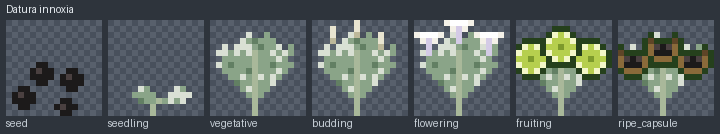
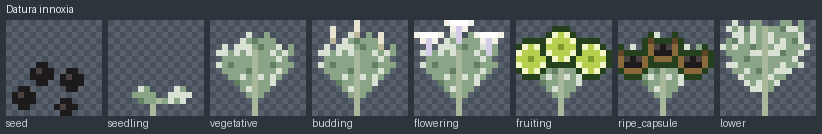
Set 1 block = 1 m and add multi-block textures
- config/scale.yaml records the world scale; derive_structure reads it
- schema + plant files: segment_textures for the five Datura species taller
  than 1 m (lower stem block) and the peach tree (trunk side/top)
- make_textures/make_index draw them and add 2-block stack previews
- docs/plant-structure.md documents growth and structure rules

Claude-Session: https://claude.ai/code/session_01JgE5aZ1GHkRLZLL9SPR287

diff --git a/tools/make_textures.py b/tools/make_textures.py
@@ -160,6 +160,37 @@ def outlined(pix, shape, ox, oy, remap=None):
     place(pix, shape, ox, oy, remap)
 
 
+LOWER = [
+    "..L..LL...LL.L..",
+    ".LLLlLLTLLlLLL..",
+    "..LLLLLTLLLLLL..",
+    ".LlLLLLTLLLLlL..",
+    "LLLLLlLTLLLLLLL.",
+    ".LLLLLLTLLlLLL..",
+    "..LLlLLTLLLLL...",
+    ".LLLLLLTLLLLLL..",
+    "..LLLLlTLLLL....",
+    "...LLLLTLLL.....",
+    "....LLLTLL......",
+    ".....LLTL.......",
+    ".......T........",
+    ".......T........",
+    ".......T........",
+    ".......T........",
+]
+
+
+def datura_lower(pid, p):
+    """Leafy stem block that sits under the stage texture on plants taller than 1 block."""
+    rng = random.Random(pid + ":lower")
+    pix = parse(LOWER)
+    if p.get("fuzzy"):
+        for (x, y), ch in list(pix.items()):
+            if ch in "Ll" and rng.random() < p["fuzzy"]:
+                pix[(x, y)] = "w"
+    return pix
+
+
 def datura_stage(pid, stage, p):
     rng = random.Random(pid)
     pix = parse(SEEDLING if stage == "seedling" else VEG)
@@ -313,6 +344,30 @@ def peach_leaves(kind):
     return img
 
 
+def peach_trunk(kind):
+    rng = random.Random("peach:trunk:" + kind)
+    img = Image.new("RGBA", (SIZE, SIZE), (0, 0, 0, 255))
+    greys = [hx("#4a4543"), hx("#3d3837"), hx("#58524f"), hx("#332f2e")]
+    if kind == "side":
+        for x in range(SIZE):
+            col = rng.choice(greys)
+            for y in range(SIZE):
+                img.putpixel((x, y), col if rng.random() < 0.75 else rng.choice(greys))
+        for y in (3, 8, 12):  # horizontal lenticels
+            for x in rng.sample(range(SIZE), 5):
+                img.putpixel((x, y), hx("#8a7f73"))
+    else:
+        img.paste(hx("#7a5a3c"), (0, 0, SIZE, SIZE))
+        for x in range(SIZE):
+            for y in range(SIZE):
+                d = max(abs(x - 7.5), abs(y - 7.5))
+                if x in (0, 15) or y in (0, 15):
+                    img.putpixel((x, y), hx("#3d3837"))
+                elif int(d) % 2 == 0:
+                    img.putpixel((x, y), hx("#946b45"))
+    return img
+
+
 def peach_sapling():
     pix = parse([
         "................", "................", "................", "................",
@@ -357,6 +412,15 @@ def draw_stage(pid, stage):
             return render(*peach_sapling())
         return peach_leaves({"young_tree": "young"}.get(stage, stage))
     raise KeyError(pid)
+
+
+def draw_segment(pid, role):
+    if pid.startswith("datura_") and role == "lower":
+        p = dict(DATURA_DEFAULT, **DATURA[pid])
+        return render(datura_lower(pid, p), datura_palette(p))
+    if pid == "prunus_persica" and role in ("trunk_side", "trunk_top"):
+        return peach_trunk(role.split("_")[1])
+    raise KeyError((pid, role))
 
 
 def sheet(images, labels, title, scale=6):
@@ -406,6 +470,14 @@ def main():
                 missing += 1
             imgs.append(im)
             labels.append(st["id"])
+        for sg in d.get("segment_textures", []):
+            out = ROOT / sg["texture"]
+            im = draw_segment(pid, sg["role"])
+            if not a.check:
+                out.parent.mkdir(parents=True, exist_ok=True)
+                im.save(out)
+            imgs.append(im)
+            labels.append(sg["role"])
         if pid == "prunus_persica" and not a.check:
             for name, (pix, pal) in (("peach", peach_item()), ("peach_pit", peach_pit_item())):
                 p = ROOT / "textures" / "item" / f"{name}.png"

diff --git a/tools/make_index.py b/tools/make_index.py
@@ -52,6 +52,31 @@ def main() -> int:
             lines.append(f"| {i} | {st['name']} | ![{pid} {st['id']}]({rel}) | {desc} |")
             total += 1
         lines.append("")
+        segs = d.get("segment_textures", [])
+        if segs:
+            lines += ["Extra blocks for plants taller than 1 block at the configured scale:", "",
+                      "| Role | Image | Note |", "|---|---|---|"]
+            for sg in segs:
+                rel = f"stages/{pid}/segment_{sg['role']}.png"
+                enlarge(ROOT / sg["texture"]).save(out_dir / rel)
+                lines.append(f"| {sg['role']} | ![{pid} {sg['role']}]({rel}) | {sg['note']} |")
+                total += 1
+            lines.append("")
+            lower = [sg for sg in segs if sg["role"] == "lower"]
+            if lower:
+                low = Image.open(ROOT / lower[0]["texture"]).convert("RGBA")
+                tops = [st for st in d["growth_stages"] if st["id"] in ("vegetative", "budding", "flowering", "fruiting", "ripe_capsule")]
+                stack = Image.new("RGBA", (len(tops) * (SIZE * SCALE + 8) + 8, 2 * SIZE * SCALE + 16), (46, 52, 60, 255))
+                for i, st in enumerate(tops):
+                    top = enlarge(ROOT / st["texture"])
+                    bot = enlarge(ROOT / lower[0]["texture"])
+                    x = 8 + i * (SIZE * SCALE + 8)
+                    stack.paste(top, (x, 8))
+                    stack.paste(bot, (x, 8 + SIZE * SCALE))
+                rel = f"stages/{pid}/stack_2_blocks.png"
+                stack.save(out_dir / rel)
+                lines += [f"Full-height plant (2 blocks): vegetative, budding, flowering, fruiting, ripe capsule, each over the lower block.", "",
+                          f"![{pid} 2-block stack]({rel})", ""]
     (out_dir / "INDEX.md").write_text("\n".join(lines), encoding="utf-8")
     print(f"wrote {total} stage images and INDEX.md")
     return 0

diff --git a/tools/derive_structure.py b/tools/derive_structure.py
@@ -1,7 +1,7 @@
 #!/usr/bin/env python3
 """Derive block-structure sizes from each plant's real size data.
 
-    python3 tools/derive_structure.py [cm_per_block ...]     (default: 100 60 50)
+    python3 tools/derive_structure.py [cm_per_block ...]     (default: config/scale.yaml)
 
 Blocks tall = ceil(height / cm_per_block), never less than 1. Nothing is typed by hand:
 change the scale and every species follows. Species whose size source is 'pending'
@@ -21,7 +21,7 @@ def blocks(cm, per):
 
 
 def main(argv):
-    scales = [float(a) for a in argv] or [100, 60, 50]
+    scales = [float(a) for a in argv] or [float(yaml.safe_load((ROOT / 'config' / 'scale.yaml').read_text())['cm_per_block'])]
     rows = []
     for f in sorted((ROOT / "plants").glob("*.yaml")):
         d = yaml.safe_load(f.read_text(encoding="utf-8"))

diff --git a/docs/preview/INDEX.md b/docs/preview/INDEX.md
@@ -57,6 +57,16 @@ Confidence: **high**. Implementation type: `flower_fruit_plant`.
 | 6 | Fruiting | ![datura_discolor fruiting](stages/datura_discolor/06_fruiting.png) | Petals fall and a green spiny seed capsule swells. |
 | 7 | Ripe capsule | ![datura_discolor ripe_capsule](stages/datura_discolor/07_ripe_capsule.png) | Capsule browns and splits open, showing black seeds. |
 
+Extra blocks for plants taller than 1 block at the configured scale:
+
+| Role | Image | Note |
+|---|---|---|
+| lower | ![datura_discolor lower](stages/datura_discolor/segment_lower.png) | Leafy stem block placed under the stage texture when this plant grows past 1 block (real height > 1 m). |
+
+Full-height plant (2 blocks): vegetative, budding, flowering, fruiting, ripe capsule, each over the lower block.
+
+![datura_discolor 2-block stack](stages/datura_discolor/stack_2_blocks.png)
+
 ## Datura ferox - Long-Spined Thorn-Apple
 
 Confidence: **medium**. Implementation type: `flower_fruit_plant`.
@@ -84,6 +94,16 @@ Confidence: **medium**. Implementation type: `flower_fruit_plant`.
 | 5 | Flowering | ![datura_innoxia flowering](stages/datura_innoxia/05_flowering.png) | Large trumpet-shaped flowers open (see flower notes for timing and colour). |
 | 6 | Fruiting | ![datura_innoxia fruiting](stages/datura_innoxia/06_fruiting.png) | Petals fall and a green spiny seed capsule swells. |
 | 7 | Ripe capsule | ![datura_innoxia ripe_capsule](stages/datura_innoxia/07_ripe_capsule.png) | Capsule browns and splits open, showing black seeds. |
+
+Extra blocks for plants taller than 1 block at the configured scale:
+
+| Role | Image | Note |
+|---|---|---|
+| lower | ![datura_innoxia lower](stages/datura_innoxia/segment_lower.png) | Leafy stem block placed under the stage texture when this plant grows past 1 block (real height > 1 m). |
+
+Full-height plant (2 blocks): vegetative, budding, flowering, fruiting, ripe capsule, each over the lower block.
+
+![datura_innoxia 2-block stack](stages/datura_innoxia/stack_2_blocks.png)
 
 ## Datura kymatocarpa - Datura kymatocarpa
 
@@ -141,6 +161,16 @@ Confidence: **high**. Implementation type: `flower_fruit_plant`.
 | 6 | Fruiting | ![datura_metel fruiting](stages/datura_metel/06_fruiting.png) | Petals fall and a green spiny seed capsule swells. |
 | 7 | Ripe capsule | ![datura_metel ripe_capsule](stages/datura_metel/07_ripe_capsule.png) | Capsule browns and splits open, showing black seeds. |
 
+Extra blocks for plants taller than 1 block at the configured scale:
+
+| Role | Image | Note |
+|---|---|---|
+| lower | ![datura_metel lower](stages/datura_metel/segment_lower.png) | Leafy stem block placed under the stage texture when this plant grows past 1 block (real height > 1 m). |
+
+Full-height plant (2 blocks): vegetative, budding, flowering, fruiting, ripe capsule, each over the lower block.
+
+![datura_metel 2-block stack](stages/datura_metel/stack_2_blocks.png)
+
 ## Datura pruinosa - Pruinose Thorn-Apple
 
 Confidence: **low**. Implementation type: `flower_fruit_plant`.
@@ -197,6 +227,16 @@ Confidence: **high**. Implementation type: `flower_fruit_plant`.
 | 6 | Fruiting | ![datura_stramonium fruiting](stages/datura_stramonium/06_fruiting.png) | Petals fall and a green spiny seed capsule swells. |
 | 7 | Ripe capsule | ![datura_stramonium ripe_capsule](stages/datura_stramonium/07_ripe_capsule.png) | Capsule browns and splits open, showing black seeds. |
 
+Extra blocks for plants taller than 1 block at the configured scale:
+
+| Role | Image | Note |
+|---|---|---|
+| lower | ![datura_stramonium lower](stages/datura_stramonium/segment_lower.png) | Leafy stem block placed under the stage texture when this plant grows past 1 block (real height > 1 m). |
+
+Full-height plant (2 blocks): vegetative, budding, flowering, fruiting, ripe capsule, each over the lower block.
+
+![datura_stramonium 2-block stack](stages/datura_stramonium/stack_2_blocks.png)
+
 ## Datura wrightii - Sacred Thorn-Apple
 
 Confidence: **high**. Implementation type: `flower_fruit_plant`.
@@ -210,6 +250,16 @@ Confidence: **high**. Implementation type: `flower_fruit_plant`.
 | 5 | Flowering | ![datura_wrightii flowering](stages/datura_wrightii/05_flowering.png) | Large trumpet-shaped flowers open (see flower notes for timing and colour). |
 | 6 | Fruiting | ![datura_wrightii fruiting](stages/datura_wrightii/06_fruiting.png) | Petals fall and a green spiny seed capsule swells. |
 | 7 | Ripe capsule | ![datura_wrightii ripe_capsule](stages/datura_wrightii/07_ripe_capsule.png) | Capsule browns and splits open, showing black seeds. |
+
+Extra blocks for plants taller than 1 block at the configured scale:
+
+| Role | Image | Note |
+|---|---|---|
+| lower | ![datura_wrightii lower](stages/datura_wrightii/segment_lower.png) | Leafy stem block placed under the stage texture when this plant grows past 1 block (real height > 1 m). |
+
+Full-height plant (2 blocks): vegetative, budding, flowering, fruiting, ripe capsule, each over the lower block.
+
+![datura_wrightii 2-block stack](stages/datura_wrightii/stack_2_blocks.png)
 
 ## Ipomoea tricolor - Morning Glory
 
@@ -237,3 +287,10 @@ Confidence: **high**. Implementation type: `fruit_tree`.
 | 5 | Fruit set | ![prunus_persica fruit_set](stages/prunus_persica/05_fruit_set.png) | Petals fall, small hard green fruit forms among the leaves. |
 | 6 | Unripe fruit | ![prunus_persica unripe](stages/prunus_persica/06_unripe.png) | Greenish-white to yellow-green fruit, growing. |
 | 7 | Ripe fruit | ![prunus_persica ripe](stages/prunus_persica/07_ripe.png) | Fruit 5-7 cm across, yellow-orange with a red blush on the sunny side, with a seam on one side. |
+
+Extra blocks for plants taller than 1 block at the configured scale:
+
+| Role | Image | Note |
+|---|---|---|
+| trunk_side | ![prunus_persica trunk_side](stages/prunus_persica/segment_trunk_side.png) | Dark grey bark with horizontal lenticels (Wikipedia). |
+| trunk_top | ![prunus_persica trunk_top](stages/prunus_persica/segment_trunk_top.png) | Cut end of the trunk. |

diff --git a/docs/plant-structure.md b/docs/plant-structure.md
@@ -1,0 +1,47 @@
+# Plant size and multi-block structure
+
+**Scale: 1 block = 1 m** (`config/scale.yaml`). Every plant's real size is stored in its file under `size`
+(centimetres, with the source wording). Block counts are *derived*, never typed by hand:
+
+```
+python3 tools/derive_structure.py        # table of blocks tall / wide for every species
+```
+
+blocks tall = ceil(height / cm_per_block), at least 1.
+
+## Growth
+
+1. **Seed** is planted and becomes a **seedling** (1 block).
+2. The plant grows upward one block at a time until it reaches its own final height. Each plant draws that
+   final height from the real range in its `size` data (for example 60-150 cm for *Datura stramonium*),
+   seeded from its position so it is stable.
+3. Flowers, fruit and capsules appear on the **top** block only. Blocks beneath are leafy stem.
+4. A plant whose final height is 1 block just uses the single-block stage textures.
+
+## Textures
+
+| Case | Blocks |
+|---|---|
+| 1-block plant, or the top of a taller one | the stage textures (`growth_stages[].texture`) |
+| Datura taller than 1 block | `segment_textures` role `lower` under the stage texture |
+| Peach tree | `trunk_side` / `trunk_top` for the trunk, leaf stage textures for the crown |
+| Morning glory | `climbing` texture repeated up the support; `flowering` / `seed_pod` on any segment |
+
+Previews of 2-block stacks are in `docs/preview/INDEX.md`.
+
+## At 1 m per block
+
+| Plant | Real height | Blocks tall |
+|---|---|---|
+| *Datura discolor* | up to 140 cm | 2 |
+| *Datura metel* | up to 180 cm | 2 |
+| *Datura stramonium*, *D. innoxia* | 60-150 cm | 1-2 |
+| *Datura wrightii* | 30-150 cm, up to 150 cm wide | 1-2 (+ sideways spread, not built yet) |
+| *Ipomoea tricolor* | 2-4 m | 2-4 |
+| *Prunus persica* | 3-10 m, crown 3-4 m wide | 3-10 |
+| other Datura | under 1 m, or no data | 1 |
+
+## Not done yet
+
+- Sideways spread for wide plants (*D. wrightii*, peach crown) needs extra blocks and a placement rule.
+- Six species have no height in the sources (`size.source: pending`) and stay 1 block until a real figure is found.

diff --git a/README.md b/README.md
@@ -26,7 +26,8 @@ textures/            generated block and item textures
 docs/preview/        contact sheets, per-stage images and INDEX.md (tools/make_index.py)
 tools/species.txt    species list the fetch tool reads
 data/raw/            cached raw API responses (inputs to the data phase)
-docs/                design notes (flower and fruit system, ...)
+docs/                design notes (flower and fruit system, plant structure)
+config/scale.yaml    world scale: cm per block
 ```
 
 ## Commands
